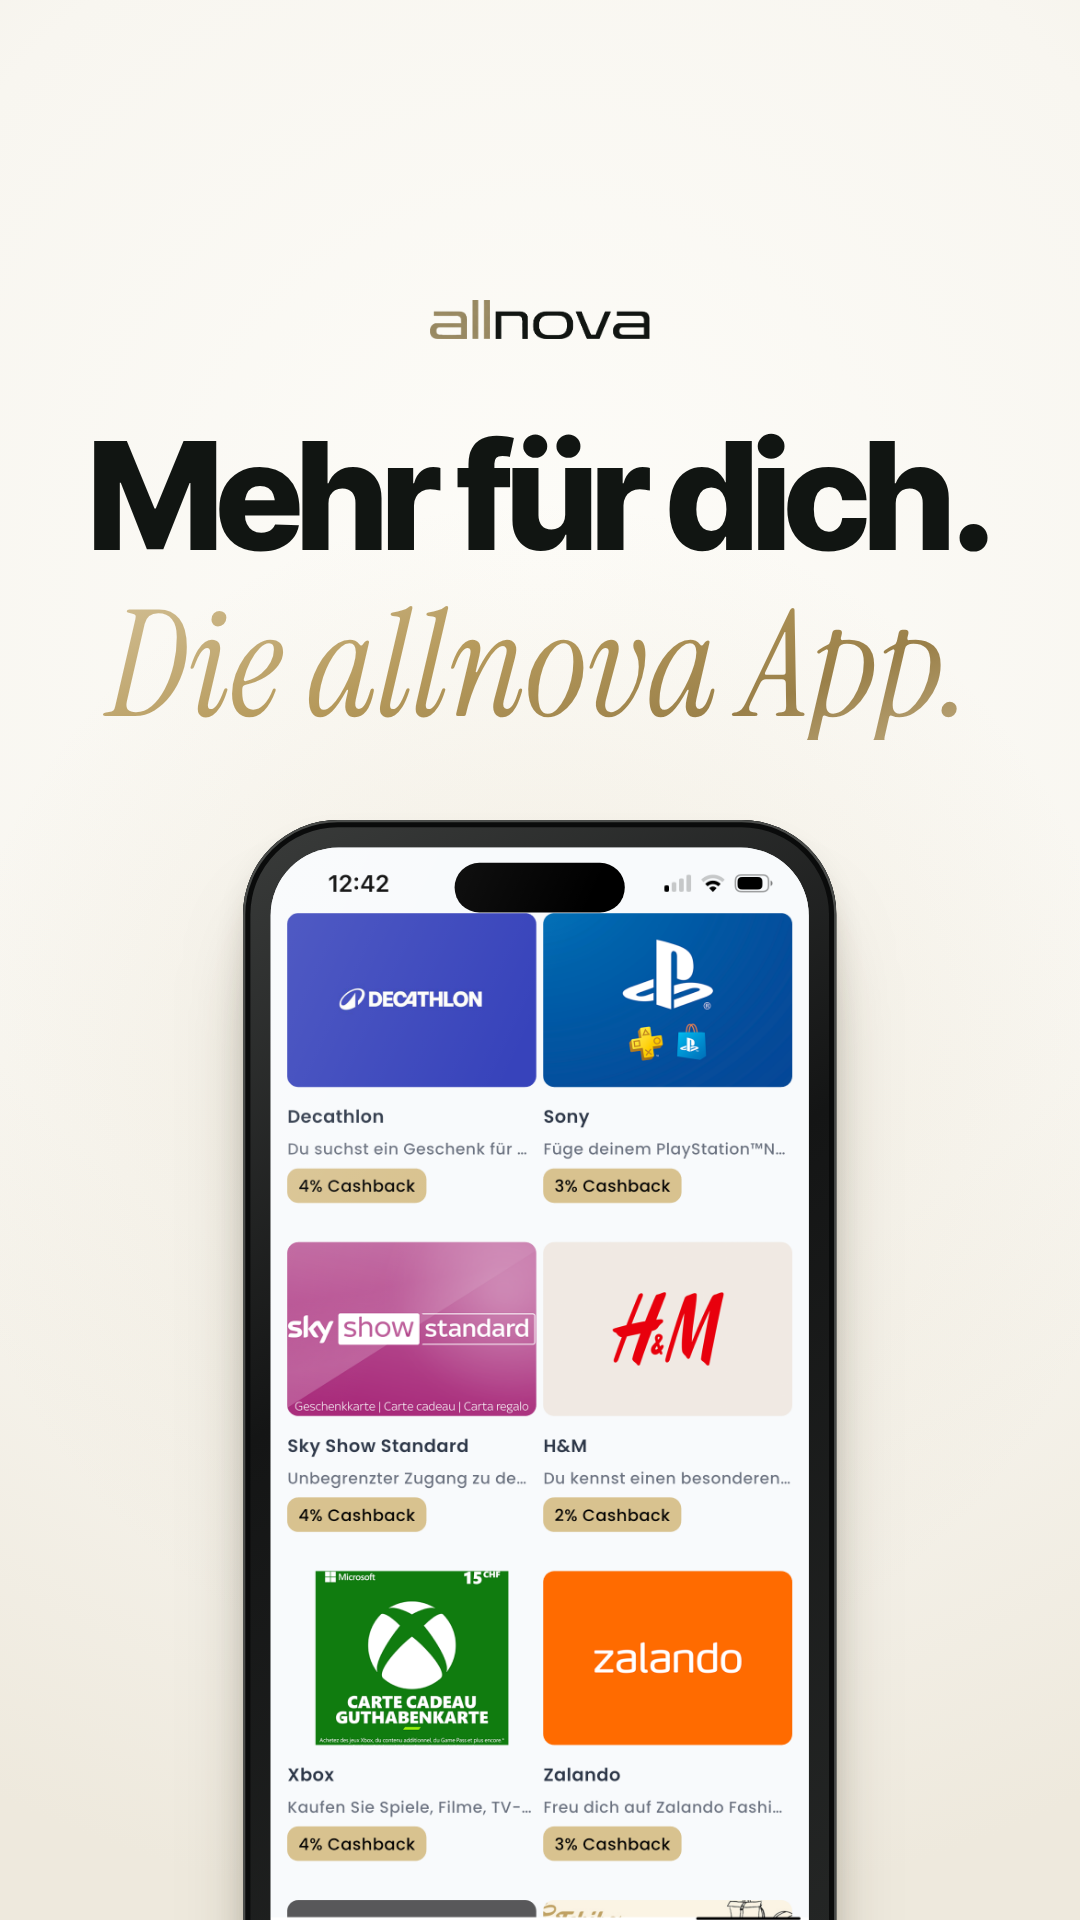
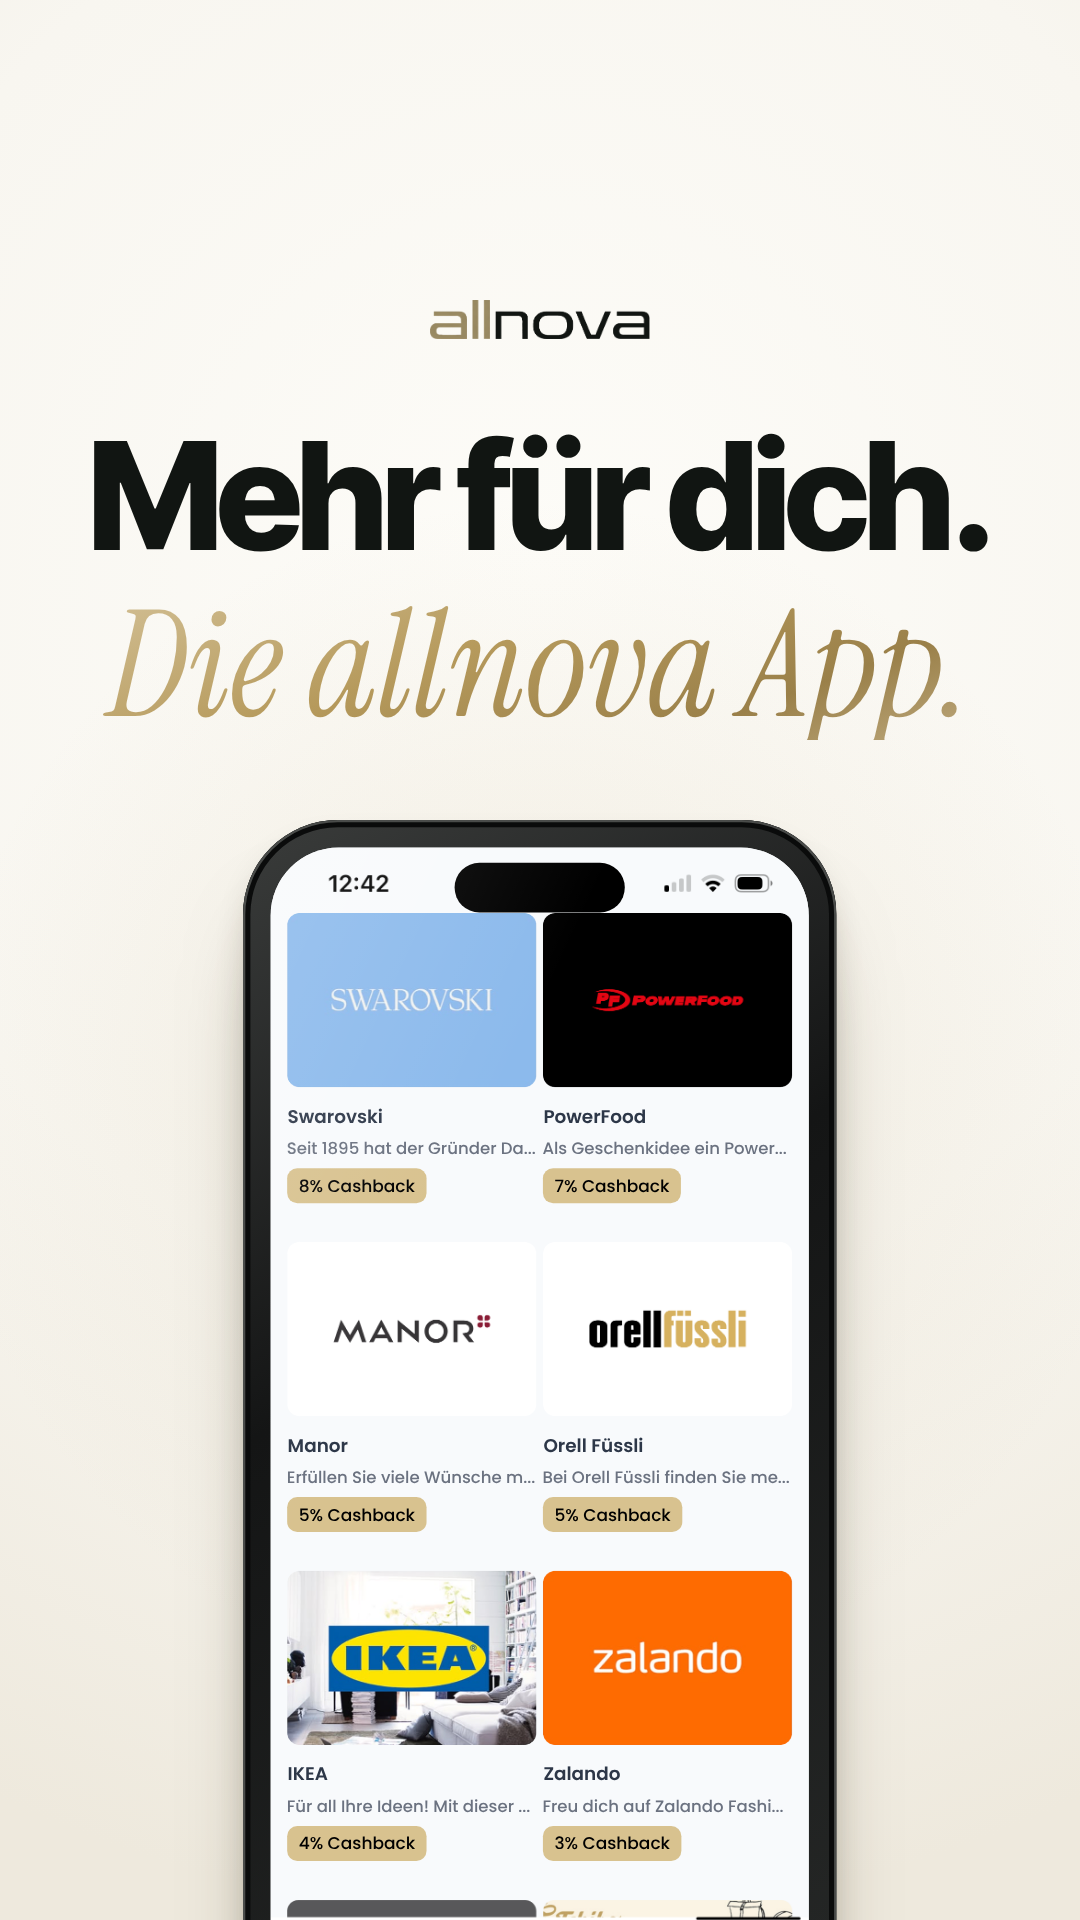
Instagram-Visuals: neues Entdecken-Raster wie im Teaser
Claude-Session: https://claude.ai/code/session_01EPwibJ8KXm8GrN7qt8Mmr4

diff --git a/app-kampagne/instagram/phone.js b/app-kampagne/instagram/phone.js
@@ -8,11 +8,27 @@ window.phone = function (screen) {
       <div class="ov ov-nr" style="left:439px;top:${194 - 0.85 * 34.5}px">${d}</div>
       <div class="ov ov-date" style="left:424px;top:${261 - 0.85 * 34.5}px">••.••.••••</div>
       <div class="ov ov-prem" style="right:52px;top:${261 - 0.85 * 36}px">•••.•• CHF/Jahr</div></div>`).join('');
+  } else if (screen === 'entdecken') {
+    // gleiches Entdecken-Raster wie im Teaser (teaser/index.html, CARDS)
+    const CARDS = [
+      ['card-swarovski', 'Swarovski', 'Seit 1895 hat der Gründer Da...', '8% Cashback'],
+      ['brand-powerfood', 'PowerFood', 'Als Geschenkidee ein Power...', '7% Cashback'],
+      ['brand-manor', 'Manor', 'Erfüllen Sie viele Wünsche m...', '5% Cashback'],
+      ['brand-orellfuessli', 'Orell Füssli', 'Bei Orell Füssli finden Sie me...', '5% Cashback'],
+      ['card-ikea', 'IKEA', 'Für all Ihre Ideen! Mit dieser ...', '4% Cashback'],
+      ['card-zalando', 'Zalando', 'Freu dich auf Zalando Fashi...', '3% Cashback'],
+    ];
+    const POS = [[36, 142], [592, 142], [36, 857], [592, 857], [36, 1572], [592, 1572]];
+    inner = img('entdecken-base.png') + CARDS.map(([im, t, d, c], i) => `<div class="lay" style="left:${POS[i][0]}px;top:${POS[i][1]}px;width:542px;height:640px">
+      <img class="c-img" src="../teaser/img/${im}.png" alt="">
+      <div class="ov c-t" style="left:1px;top:${456 - 0.85 * 40}px">${t}</div>
+      <div class="ov c-d" style="left:-1px;top:${525 - 0.85 * 36}px">${d}</div>
+      <div class="c-b"><span class="ov">${c}</span></div></div>`).join('');
   } else inner = img(`${screen}.png`);
   return `<div class="scr">${inner}</div><div class="island"></div><div class="glare"></div>`;
 };
 // Schriften + Bilder geladen → window.ready
 window.ready = Promise.all([
   document.fonts.load('800 40px "Inter Tight"'), document.fonts.load('500 40px "Inter Tight"'), document.fonts.load('700 40px "Inter Tight"'),
-  document.fonts.load('italic 400 40px "Instrument Serif"'), document.fonts.load('400 40px Poppins'), document.fonts.load('500 40px Poppins'),
+  document.fonts.load('italic 400 40px "Instrument Serif"'), document.fonts.load('400 40px Poppins'), document.fonts.load('500 40px Poppins'), document.fonts.load('600 40px Poppins'),
 ]).then(() => new Promise((r) => setTimeout(r, 50))).then(() => Promise.all([...document.images].map((i) => i.decode().catch(() => {}))));

diff --git a/app-kampagne/instagram/ig.css b/app-kampagne/instagram/ig.css
@@ -1,6 +1,7 @@
 /* Instagram-Visuals: gemeinsame Gestaltung (allnova CI: Anthrazit, Elfenbein, Gold) */
 @font-face { font-family: 'Poppins'; font-weight: 400; src: url('../assets/fonts/poppins-latin-400-normal.woff2') format('woff2'); }
 @font-face { font-family: 'Poppins'; font-weight: 500; src: url('../assets/fonts/poppins-latin-500-normal.woff2') format('woff2'); }
+@font-face { font-family: 'Poppins'; font-weight: 600; src: url('../assets/fonts/poppins-latin-600-normal.woff2') format('woff2'); }
 html, body { margin: 0; background: #0d0d0e; }
 #stage { position: relative; overflow: hidden; }
 #stage.post { width: 1080px; height: 1350px; }
@@ -36,3 +37,9 @@ html, body { margin: 0; background: #0d0d0e; }
 .logo { position: absolute; width: 220px; }
 .foot { position: absolute; font-size: 22px; font-weight: 700; letter-spacing: .3em; text-transform: uppercase; color: rgba(248, 246, 240, .5); white-space: nowrap; }
 .sub { position: absolute; font-size: 30px; font-weight: 600; letter-spacing: -.005em; color: rgba(248, 246, 240, .72); white-space: nowrap; }
+/* Entdecken-Karten (wie im Teaser) */
+.c-img { position: absolute; left: 0; top: 0; width: 542px; height: 379px; border-radius: 26px; display: block; }
+.c-t { font-size: 40px; font-weight: 600; color: #2d3748; }
+.c-d { font-size: 36px; font-weight: 500; color: #6b7280; }
+.c-b { position: absolute; left: 0; top: 555px; height: 76px; padding: 0 25px; border-radius: 22px; background: #d8c28f; white-space: nowrap; }
+.c-b .ov { position: relative; display: block; margin-top: 19.55px; font-size: 37px; font-weight: 500; color: #000; }
